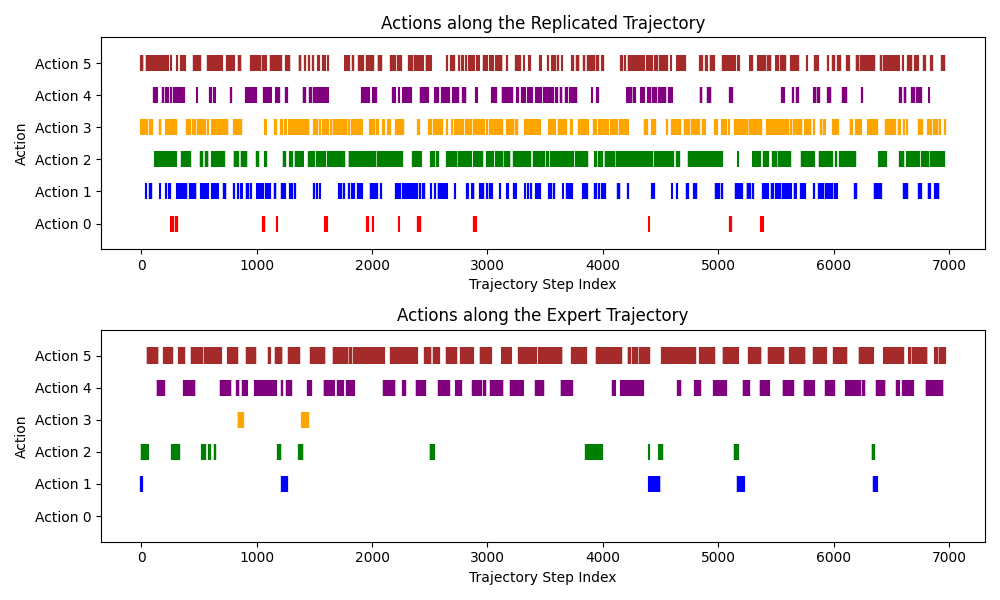
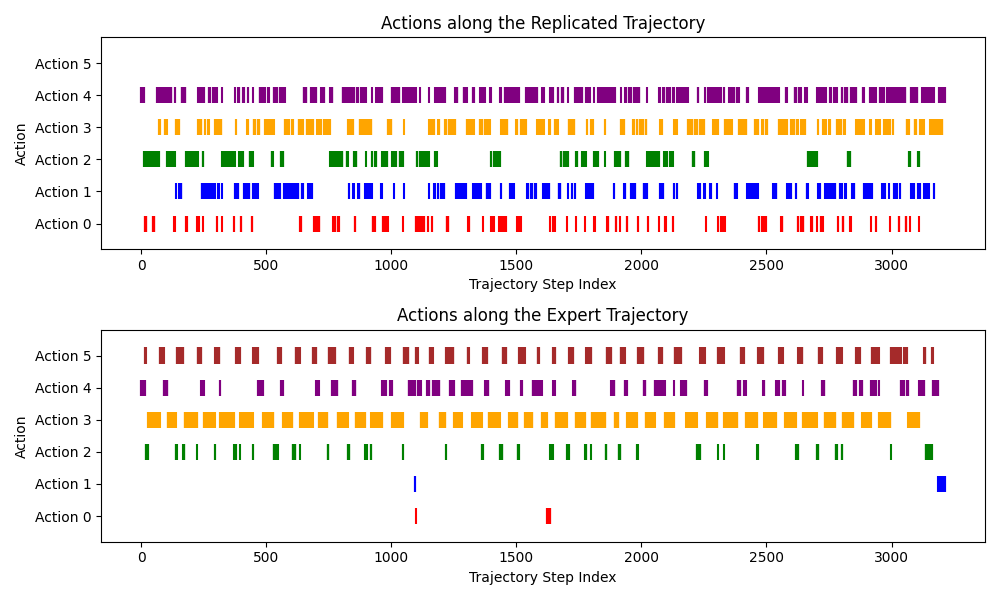
commit

diff --git a/test.py b/test.py
@@ -39,10 +39,10 @@ actions_medauroidea = trajectory_dirvel_medauroidea[:, 1].astype(int)
 
 
 # the policy used
-q_values = q_value_dirvel_carausius
+q_values = q_value_dirvel_medauroidea
 # the test source
-state_indices = state_indices_dirvel_medauroidea
-actions = actions_medauroidea
+state_indices = state_indices_dirvel_aretaon
+actions = actions_aretaon
 
 replicated_trajectory = []
 for i in range(len(state_indices)):
